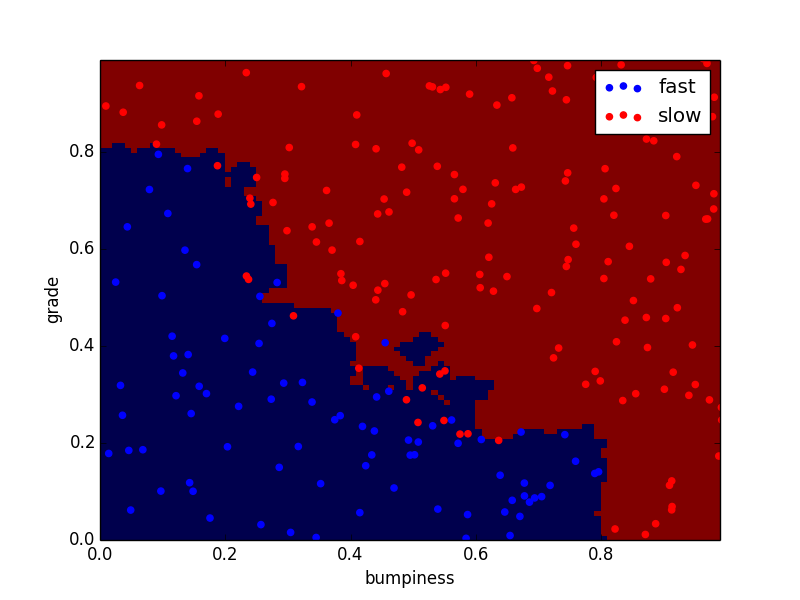
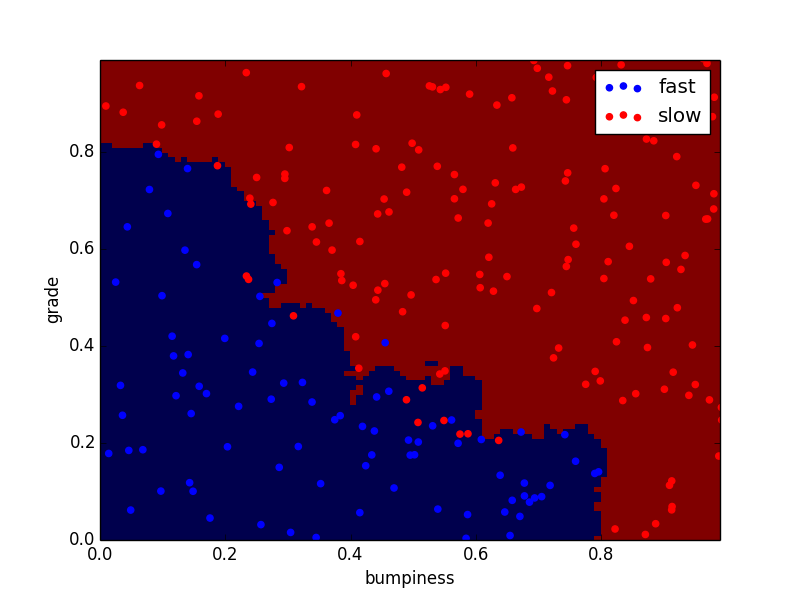
knn not working properrly

diff --git a/knn/knn.py b/knn/knn.py
@@ -29,25 +29,19 @@ plt.show()
 ### your code here!  name your classifier object clf if you want the
 ### visualization code (prettyPicture) to show you the decision boundary
 
-# from sklearn.neighbors import KNeighborsClassifier
-# import numpy as np
-# X = np.array(features_train)
-# clf = KNeighborsClassifier(n_neighbors=2, algorithm='ball_tree').fit(X, labels_train)
-#
-#
-# clf.predict(features_test)
-#
-# try:
-#     prettyPicture(clf, features_test, labels_test)
-# except NameError:
-#     pass
-#
-#
-#
-#
-# try:
-#     prettyPicture(neigh, features_test, labels_test)
-# except NameError:
-#     pass
+from sklearn.neighbors import KNeighborsClassifier
+
+nbrs = KNeighborsClassifier(n_neighbors=4, algorithm='ball_tree').fit(features_train, labels_train)
+distances, indices = nbrs.kneighbors(features_train)
+
+
+
+try:
+    prettyPicture(nbrs, features_test, labels_test)
+except NameError:
+    pass
+
+
+
 
 
